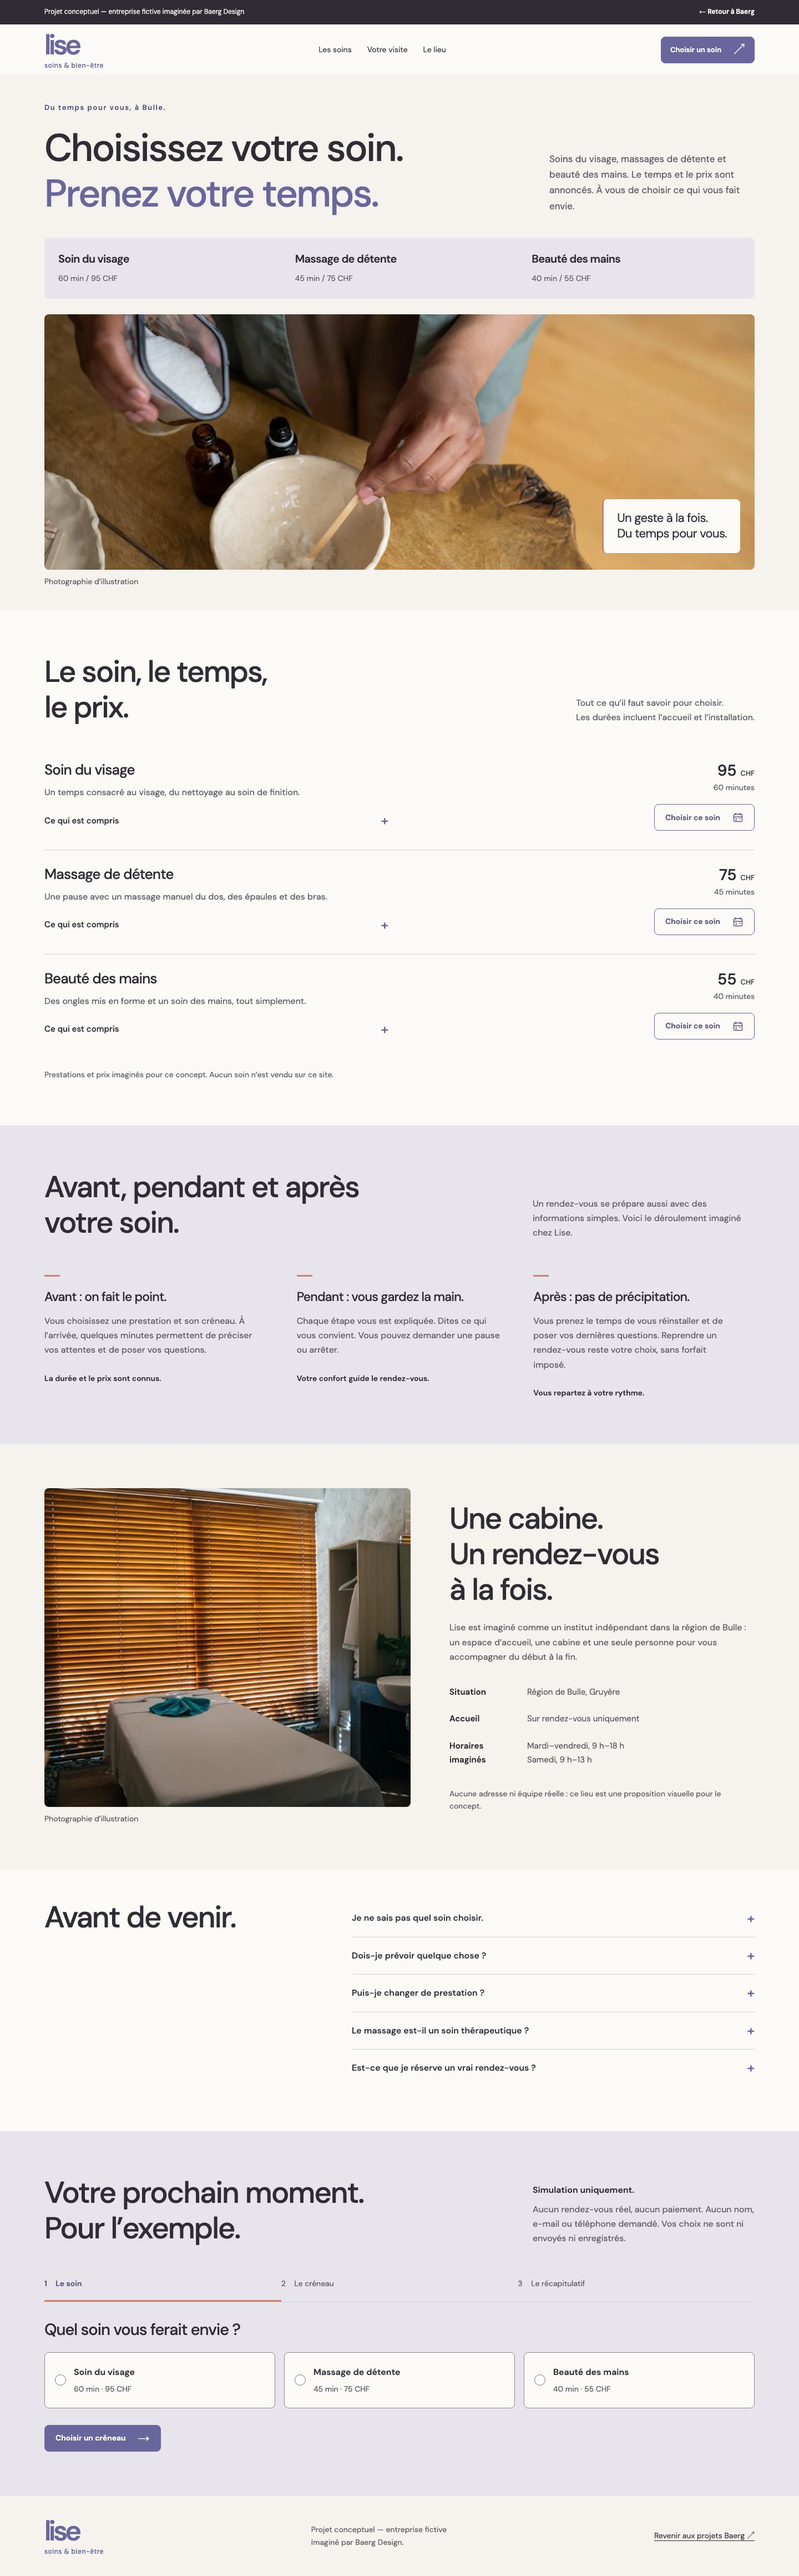
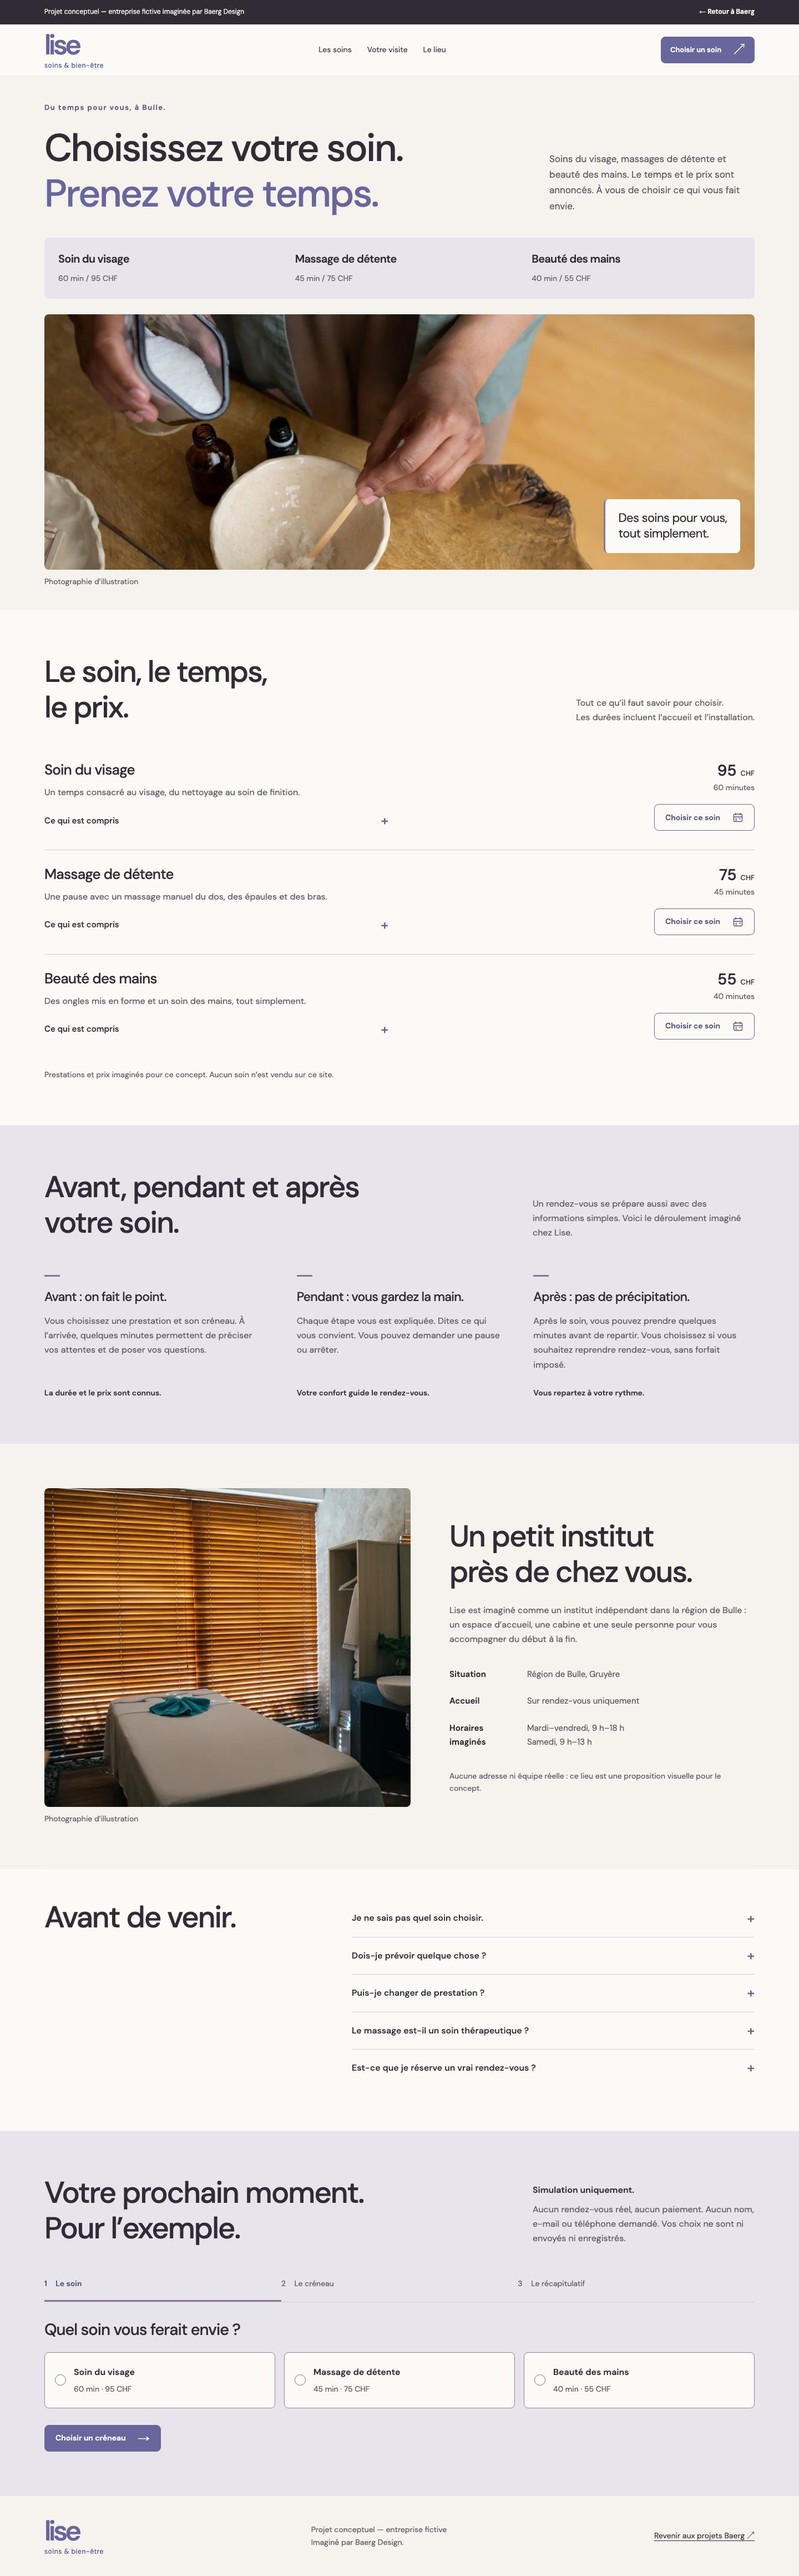
Change Lise Orange to purple

Changed region(s): [[0.5625, 0.5898, 0.875, 0.7139], [0.6875, 0.4967, 0.9062, 0.5277], [0.75, 0.1862, 0.9062, 0.2173]]

diff --git a/public/concepts/lise/styles.css b/public/concepts/lise/styles.css
@@ -14,7 +14,7 @@
   --muted: #615a65;
   --line: #d8d0d7;
   --control-line: #928591;
-  --clay: #c9826d;
+  --mauve: #887495;
   --hover: #54527f;
   --radius: 8px;
   --bar: 44px;
@@ -296,7 +296,7 @@ figcaption {
 .quick-choices a:hover,
 .quick-choices a:focus-visible {
   background: var(--surface);
-  border-bottom-color: var(--clay);
+  border-bottom-color: var(--mauve);
 }
 .quick-choices strong {
   font-size: 20px;
@@ -326,7 +326,7 @@ figcaption {
   right: 26px;
   bottom: 62px;
   background: var(--surface);
-  border-left: 3px solid var(--clay);
+  border-left: 3px solid var(--mauve);
   border-radius: var(--radius);
   padding: 20px 24px;
   color: var(--ink);
@@ -424,7 +424,7 @@ summary:hover {
   max-width: 620px;
 }
 .detail-copy {
-  border-left: 2px solid var(--clay);
+  border-left: 2px solid var(--mauve);
   padding: 8px 18px;
   margin-block: 8px 12px;
 }
@@ -455,7 +455,7 @@ summary:hover {
   width: 28px;
   height: 3px;
   flex-shrink: 0;
-  background: var(--clay);
+  background: var(--mauve);
 }
 .visit-steps li + li {
   padding-left: 28px;
@@ -553,7 +553,7 @@ summary:hover {
   border-bottom: 3px solid transparent;
 }
 .progress li[aria-current] {
-  border-color: var(--clay);
+  border-color: var(--mauve);
   color: var(--iris-text);
   font-weight: 600;
 }
@@ -599,7 +599,7 @@ summary:hover {
   border-color: var(--iris);
   box-shadow:
     inset 0 0 0 1px var(--iris),
-    inset 0 -4px var(--clay);
+    inset 0 -4px var(--mauve);
 }
 input[type='radio'] {
   accent-color: var(--iris);

diff --git a/public/concepts/lise/README.md b/public/concepts/lise/README.md
@@ -10,9 +10,9 @@ Le parcours fonctionne uniquement dans le navigateur : soin → jour d’une sem
 
 Le script partagé `/concepts/navigation.js` masque la navigation en descendant et la révèle dès la remontée ou au focus clavier. Le bandeau fictif et le retour Baerg restent visibles. Page non indexable et exclue du sitemap.
 
-## Direction visuelle — septembre 2026
+## Direction visuelle — accent actualisé le 2 octobre 2026
 
-Les variables de `styles.css` centralisent les couleurs : fond minéral `#F6F3EF`, surfaces claires `#FCFAF7`, pervenche `#68669C`, lavande grisée `#E8E4EC`, encre aubergine `#302C35` et argile `#C9826D`. L’argile est réservée aux traits de repère, au soulignement des étapes et à certains états actifs ; elle n’est utilisée ni comme grand fond ni pour les textes.
+Les variables de `styles.css` centralisent les couleurs : fond minéral `#F6F3EF`, surfaces claires `#FCFAF7`, pervenche `#68669C`, lavande grisée `#E8E4EC`, encre aubergine `#302C35` et mauve grisé `#887495`. Le mauve est réservé aux traits de repère, au soulignement des étapes et à certains états actifs ; elle n’est utilisée ni comme grand fond ni pour les textes.
 
 La variante pervenche `#575580` sert aux petits textes sur fond lavande : la teinte principale y atteint seulement 4,22:1. Les paragraphes utilisent `#615A65`, les contours des contrôles `#928591`. Les légendes et notes passent à 13–14 px. Les séparateurs restent là où ils aident à distinguer les soins et les questions, avec moins de lignes autour des sections et des étapes de visite.
 
